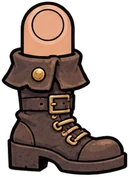
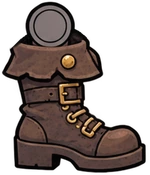
v0.398: kadın: yeni bot görseli (iki ayakta), kalça parçası kaldırıldı, bacaklar eteğin altına bağlı
Claude-Session: https://claude.ai/code/session_015fAnPJ7MZ6QNPmTjLD249e

diff --git a/www/index.html b/www/index.html
@@ -1,7 +1,7 @@
 <!doctype html>
 <html lang="en"><head><meta charset="utf-8"><meta name="viewport" content="width=device-width,initial-scale=1,viewport-fit=cover,user-scalable=no">
 <title>Popeye Fighter</title>
-<link rel="stylesheet" href="css/oyun.css?v=0.397">
+<link rel="stylesheet" href="css/oyun.css?v=0.398">
 </head><body>
 
 
@@ -36,34 +36,34 @@
 </div></div>
 <div id="yuk" data-l="yuk"></div>
 
-<script src="js/dil.js?v=0.397"></script>
-<script src="js/ayar.js?v=0.397"></script>
-<script src="js/girdi.js?v=0.397"></script>
-<script src="js/el.js?v=0.397"></script>
-<script src="js/ozel.js?v=0.397"></script>
-<script src="js/mermi.js?v=0.397"></script>
-<script src="js/dusman_kur.js?v=0.397"></script>
-<script src="js/ses.js?v=0.397"></script>
-<script src="js/ispanak.js?v=0.397"></script>
-<script src="js/varil.js?v=0.397"></script>
-<script src="js/efekt.js?v=0.397"></script>
-<script src="js/cevre.js?v=0.397"></script>
-<script src="js/savas.js?v=0.397"></script>
-<script src="js/korsan.js?v=0.397"></script>
-<script src="js/usta.js?v=0.397"></script>
-<script src="js/hud.js?v=0.397"></script>
-<script src="js/kombo.js?v=0.397"></script>
-<script src="js/yetenek.js?v=0.397"></script>
-<script src="js/anti.js?v=0.397"></script>
-<script src="js/zipkin.js?v=0.397"></script>
-<script src="js/menu.js?v=0.397"></script>
-<script src="js/yara_veri.js?v=0.397"></script>
-<script src="js/yara.js?v=0.397"></script>
-<script src="js/dyara_veri.js?v=0.397"></script>
-<script src="js/dyara.js?v=0.397"></script>
-<script src="js/oyuncu.js?v=0.397"></script>
-<script src="js/demo.js?v=0.397"></script>
-<script src="js/dongu.js?v=0.397"></script>
+<script src="js/dil.js?v=0.398"></script>
+<script src="js/ayar.js?v=0.398"></script>
+<script src="js/girdi.js?v=0.398"></script>
+<script src="js/el.js?v=0.398"></script>
+<script src="js/ozel.js?v=0.398"></script>
+<script src="js/mermi.js?v=0.398"></script>
+<script src="js/dusman_kur.js?v=0.398"></script>
+<script src="js/ses.js?v=0.398"></script>
+<script src="js/ispanak.js?v=0.398"></script>
+<script src="js/varil.js?v=0.398"></script>
+<script src="js/efekt.js?v=0.398"></script>
+<script src="js/cevre.js?v=0.398"></script>
+<script src="js/savas.js?v=0.398"></script>
+<script src="js/korsan.js?v=0.398"></script>
+<script src="js/usta.js?v=0.398"></script>
+<script src="js/hud.js?v=0.398"></script>
+<script src="js/kombo.js?v=0.398"></script>
+<script src="js/yetenek.js?v=0.398"></script>
+<script src="js/anti.js?v=0.398"></script>
+<script src="js/zipkin.js?v=0.398"></script>
+<script src="js/menu.js?v=0.398"></script>
+<script src="js/yara_veri.js?v=0.398"></script>
+<script src="js/yara.js?v=0.398"></script>
+<script src="js/dyara_veri.js?v=0.398"></script>
+<script src="js/dyara.js?v=0.398"></script>
+<script src="js/oyuncu.js?v=0.398"></script>
+<script src="js/demo.js?v=0.398"></script>
+<script src="js/dongu.js?v=0.398"></script>
 </script>
 
 </body>

diff --git a/www/js/ayar.js b/www/js/ayar.js
@@ -1,9 +1,9 @@
 'use strict';
 // Ayarlar, sürüm, görsel yükleyici, ekran boyutu, oyuncu durumu (S)
 // ---------- Görseller: hepsi tek yükleyiciyle; tamamı inince oyun başlar ----------
-const OYUN_SURUM='v0.397';      // ekrandaki sürüm (her değişiklikte artar)
+const OYUN_SURUM='v0.398';      // ekrandaki sürüm (her değişiklikte artar)
 document.getElementById('surum').textContent=OYUN_SURUM;
-const SURUM='?v=108';                 // görsel değişince artır: tarayıcı eski önbelleği kullanmasın
+const SURUM='?v=109';                 // görsel değişince artır: tarayıcı eski önbelleği kullanmasın
 const KP=['kafa','govde','kalca','ust','on','elN','elF','uy','bacak','bot'];      // korsan parça seti (k: yumruklu, b: bıçaklı, p: tabancalı kaptan)
 const ADLAR=['el_isp_n','el_isp_f','kalca','ustkol','onkol','onkol2','uyluk','altpan','bacak_bot','el_yum','el_yum_f','el_ac_n','el_ac_f','el_pN','el_pF','p_mermi','p_ates','h_elB','h_kanca','h_zincir','z_dolu','z_bos','z_mizrak','z_ip']      // z_: zıpkın (tabanca dolu/boş, mızrak, halat)
   .concat([...Array(11).keys()].map(i=>'govde'+i),...['k_','b_','p_','h_','m_','f_'].map(q=>KP.map(n=>q+n)));

diff --git a/OYUN.md b/OYUN.md
@@ -158,3 +158,6 @@ Her zaman açık: yumruk kombo, tekme, blok. Diğerleri ağaçtan puanla (1–3)
 ## v0.397
 - Oyuncu ölüm animasyonu (`olumBasla/olumGuncelle`, anti.js; poz `olumPoz`, oyuncu.js): ölünce kontrol kilitlenir, `ses/popeye_die.mp3` çalar; iki dizine çöker (0.4 sn'de dizler yere çarpar: hafif sekme + yere iniş sesi), elleri karnında, karnından kan fışkırır (orta güç), 2.0 sn'de kollar öne uzanıp yüz üstü yığılır (2.68 sn'de yere çarpınca düşmanların yere düşme sesi `dusme.mp3`). 3.0 sn'de YENİLDİN yazısı + game over sesi, 3.5 sn'de yetenek (skill) seçimi açılır / dokununca yeniden başlar.
 - Kadın (f): şarjör sesi (`ses/kiz_sarjor.mp3`, 0.55 sn) nişan başlarken çalar (kaptanda eski `mermi_haz`); arkadaki (tabancasız) kolun eli 45° aşağı bükülü (`wF:45`); geri tepme 14°→4° (namlu kalkıp mermi "altından çıkıyor" görünüyordu), mermi ilk 0.05 sn canlı namlu ucuna yapışık.
+
+## v0.398
+- Kadın (f): kalça/etek parçası (`f_kalca`) çizilmiyor; bacaklar doğrudan gövdenin (eteğin) altına bağlı, üst bacak yuvarlağı eteğin altında kalır. Bot görseli yenilendi: tek bot (`parca/f_bot.webp`, 150x175, bilek yuvarlağı [49.8,25.5]) iki ayakta da kullanılır (arkadaki koyulaştırılır).
